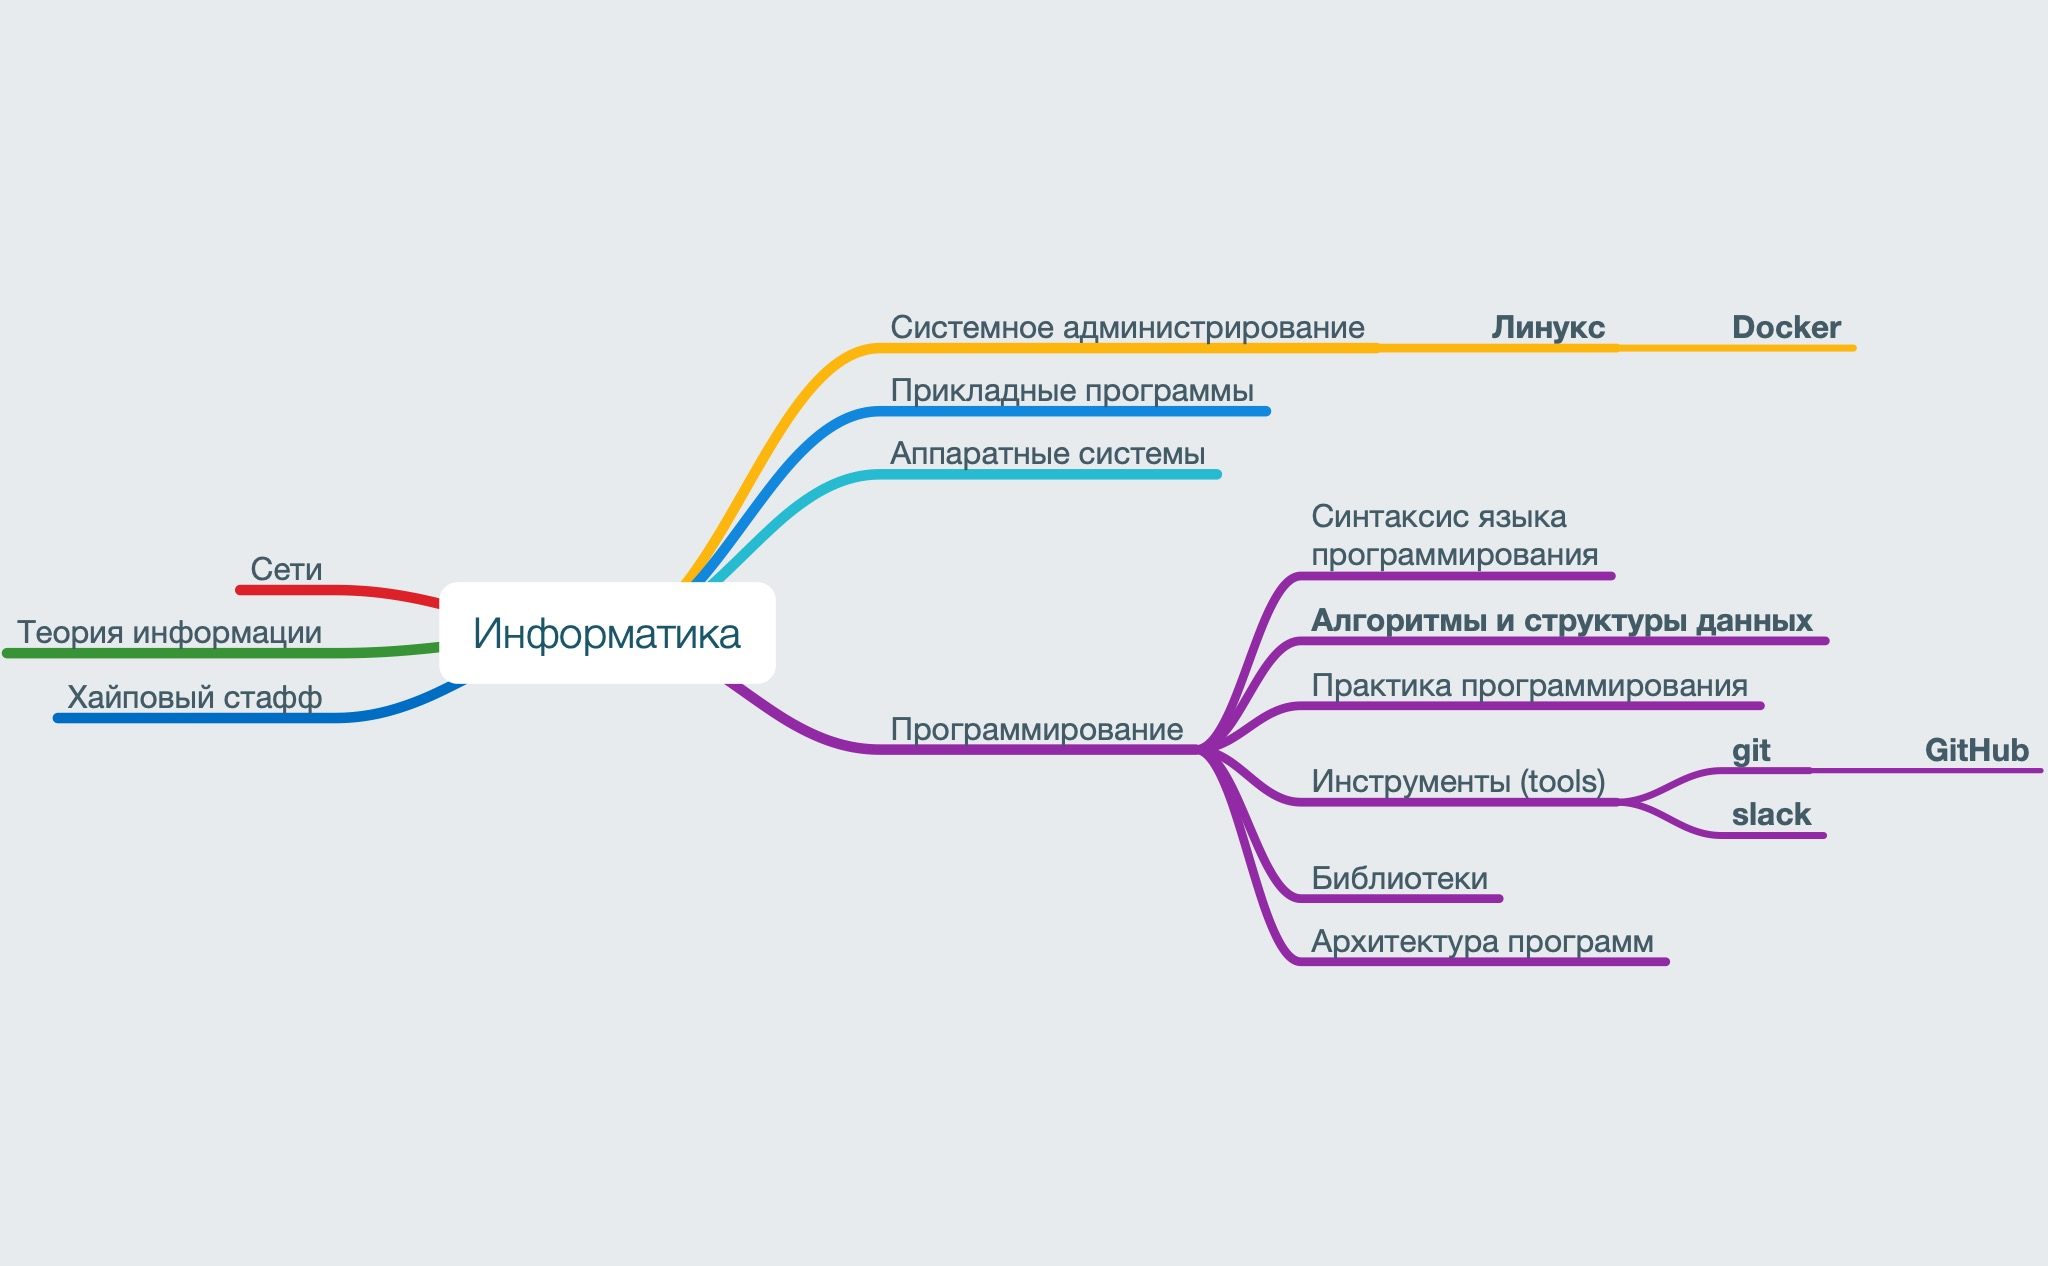
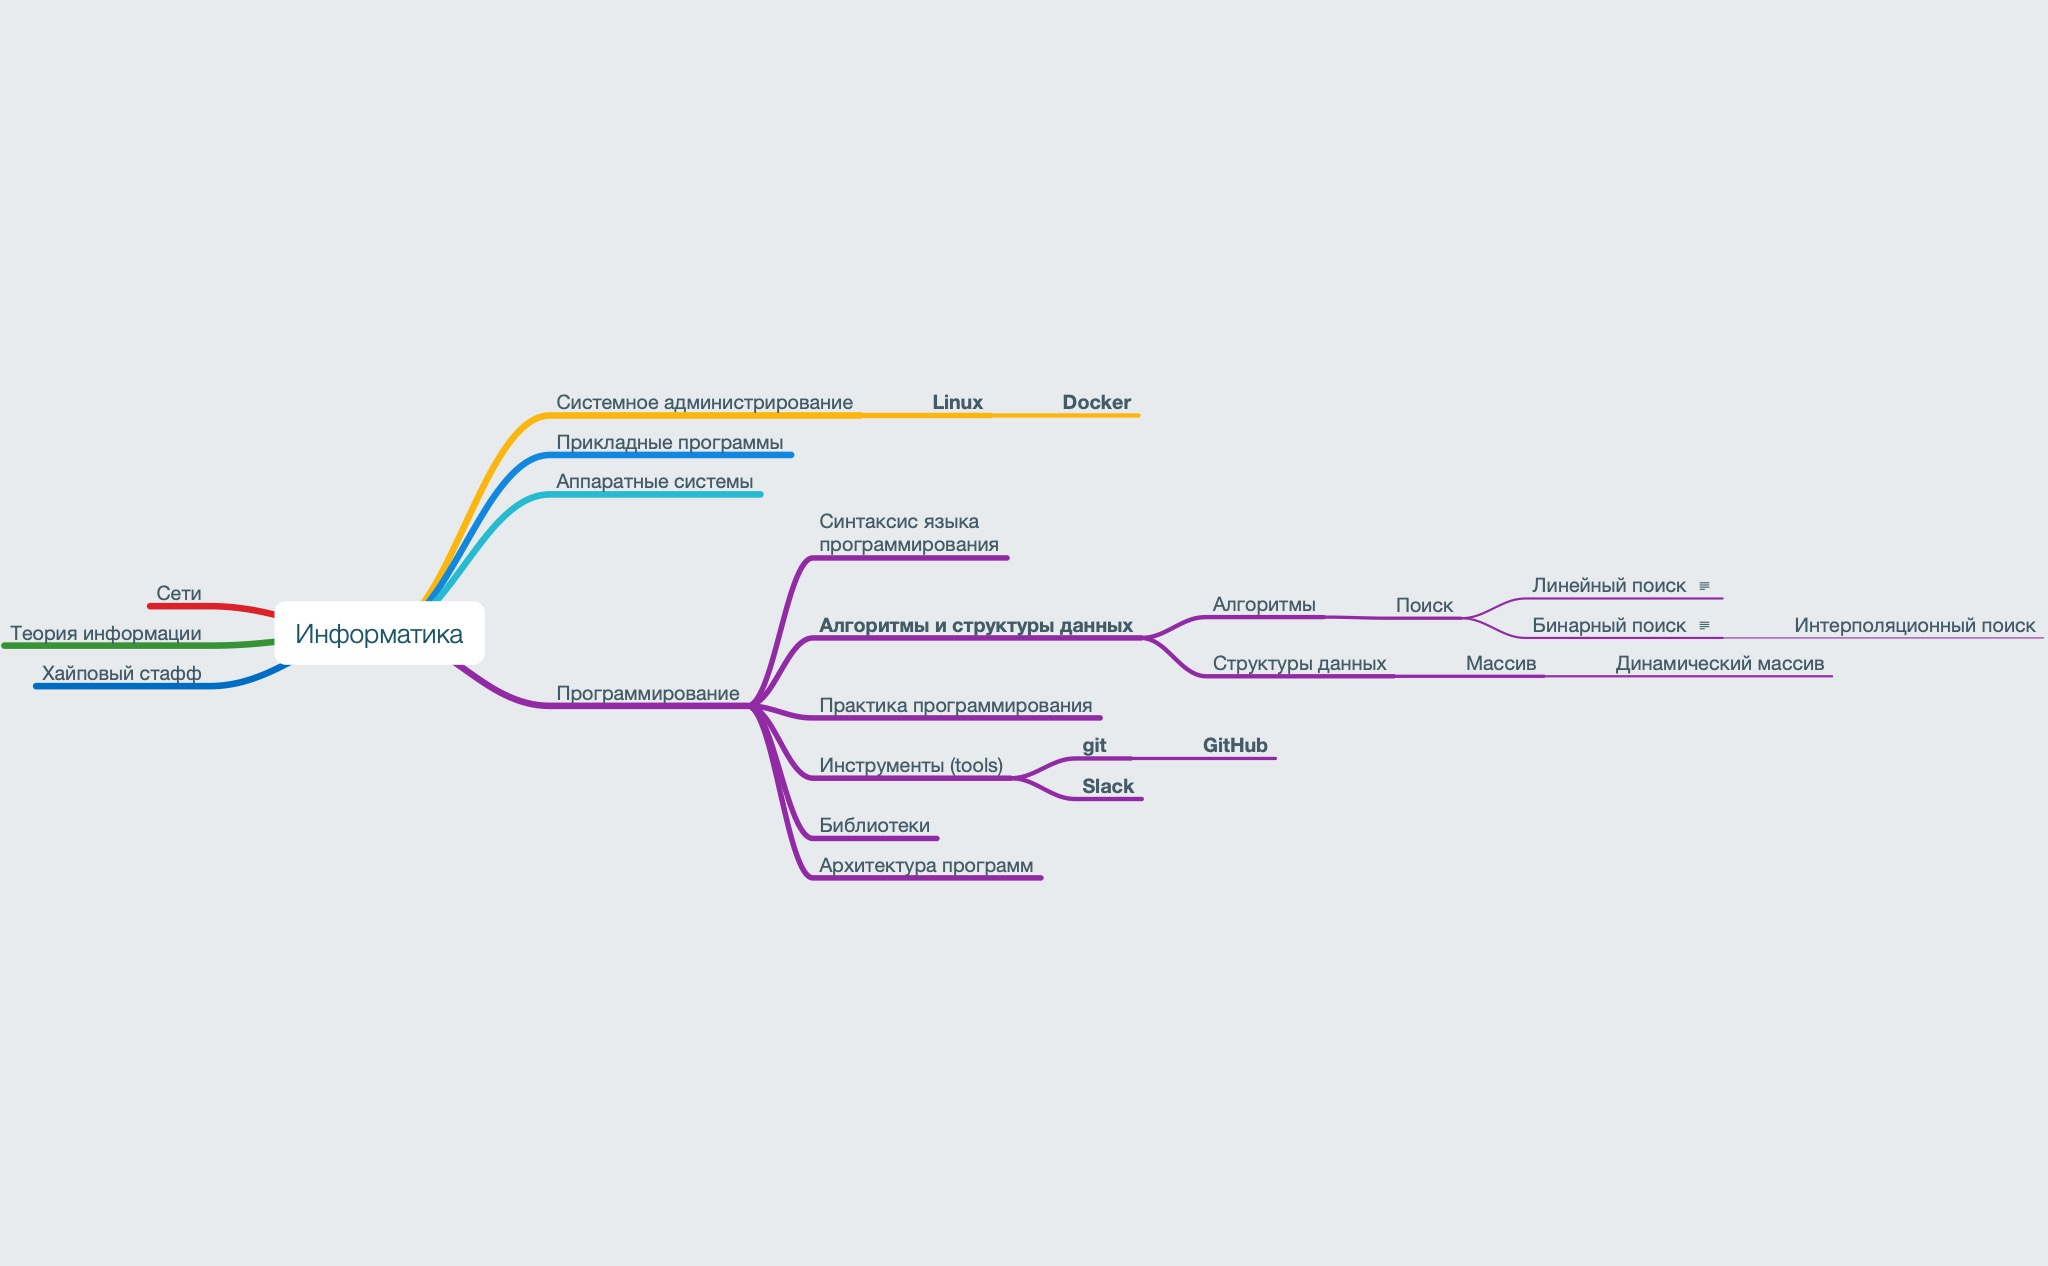
feat(README): add new topic

Changed region(s): [[0.0, 0.2464, 1.0, 0.7701]]

diff --git a/README.md b/README.md
@@ -9,3 +9,4 @@
 ## Слайды
 
 1. [Вводная лекция](https://korikov.cc/?d=2019-informatika-01-vvodnaya-lekciya)
+2. [Алгоритмы и структуры данных. Начало](https://korikov.cc/?d=2019-informatika-02-algoritmy-i-struktury-dannyh-nachalo)
